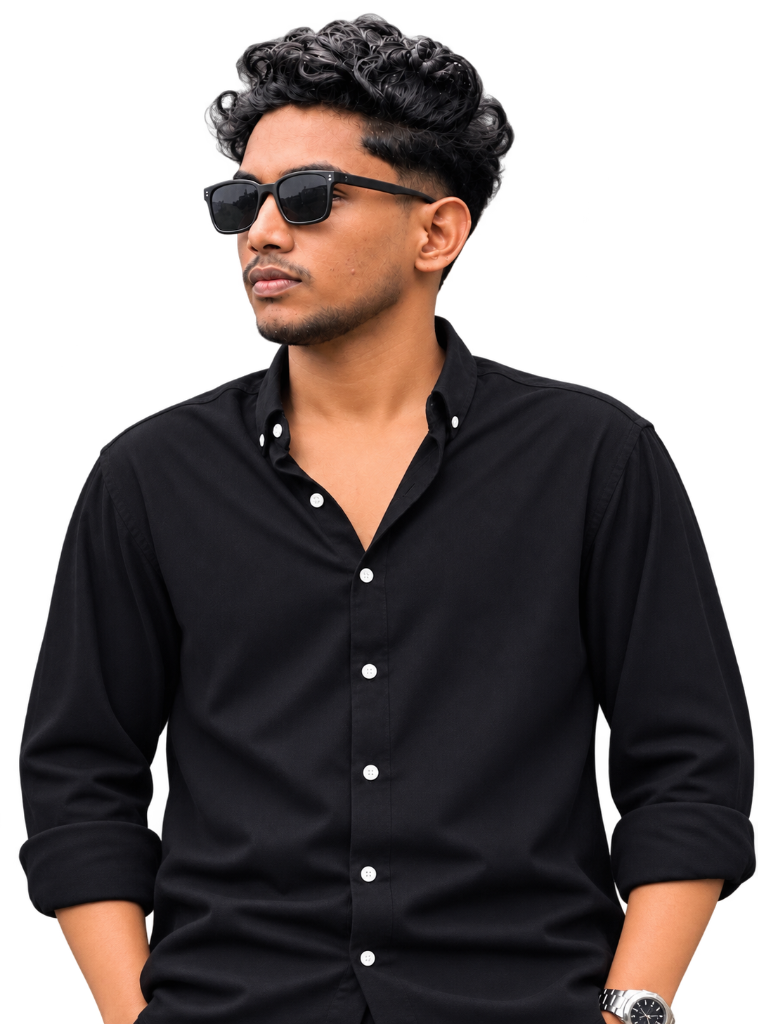
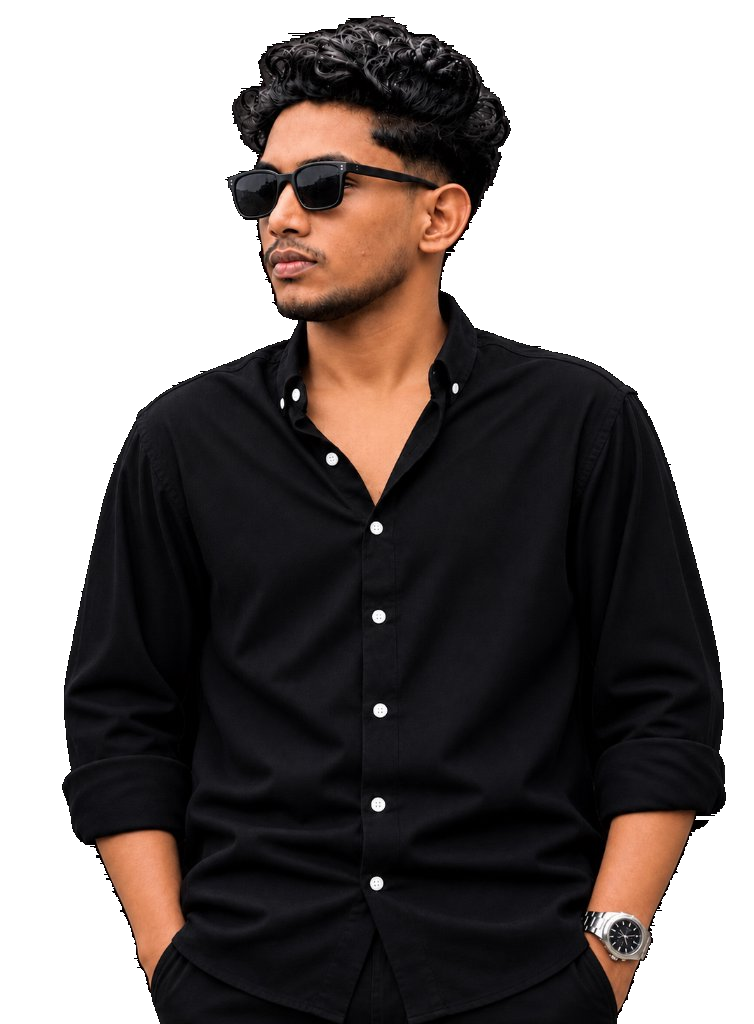
Update hero portrait photo

diff --git a/dist/index.html b/dist/index.html
@@ -73,7 +73,7 @@
 
         <!-- Person Subject Image Cutout (Muhammad Hashir in Black Shirt) -->
         <div class="hero-person-wrap">
-          <img src="/assets/hashir-cutout-1zP_88Wh.png" 
+          <img src="/assets/hashir-cutout-BFLMWiL_.png" 
                alt="Muhammad Hashir - AI Content Creator & Creative Developer in Black Shirt" 
                class="hero-person-img">
         </div>
